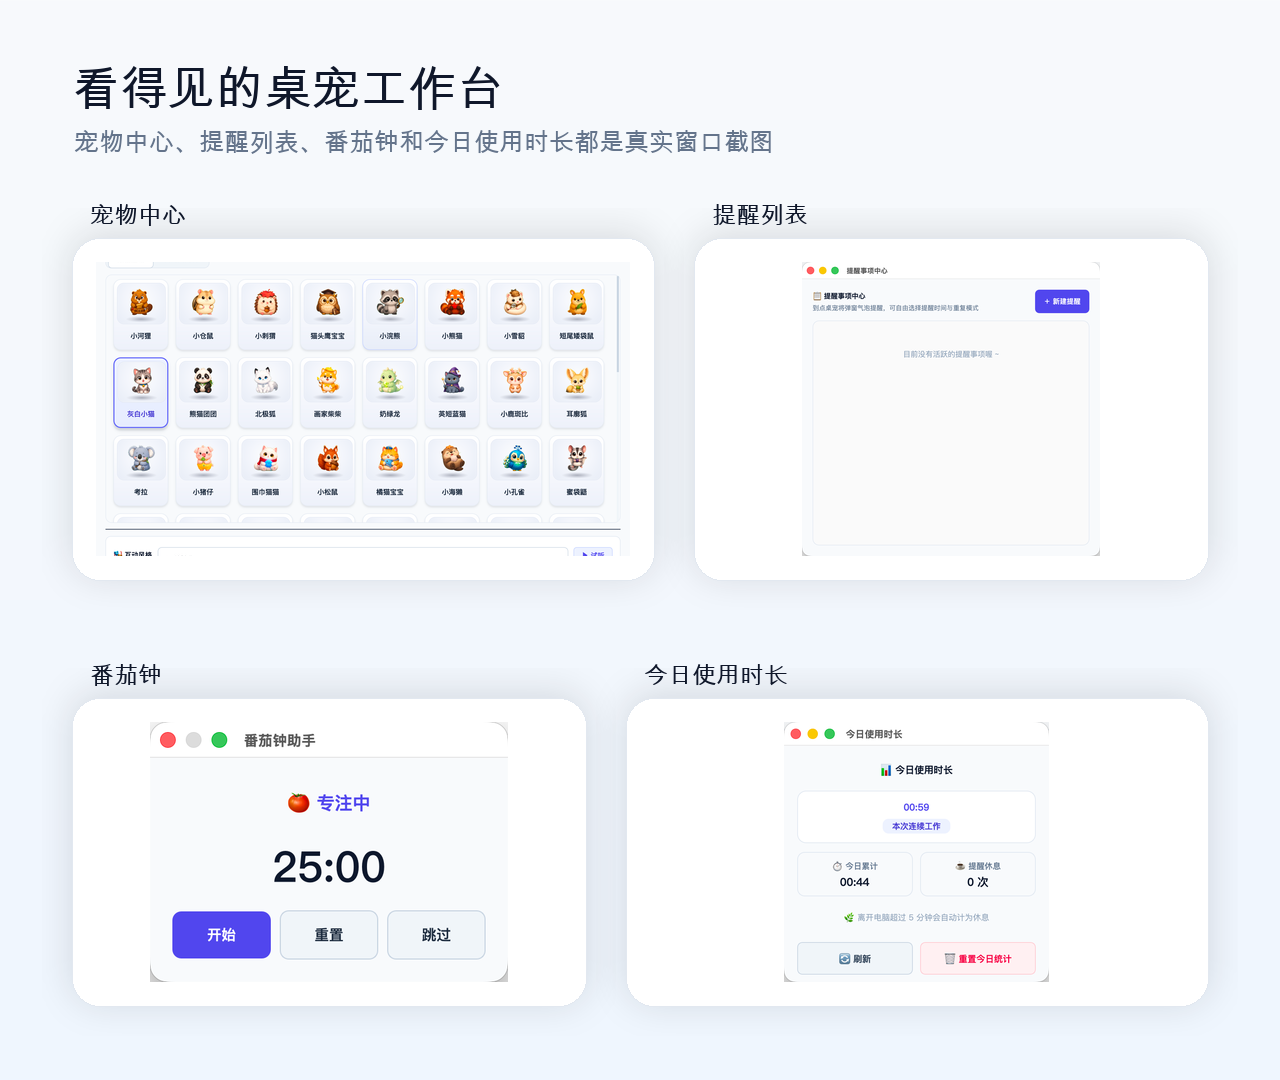
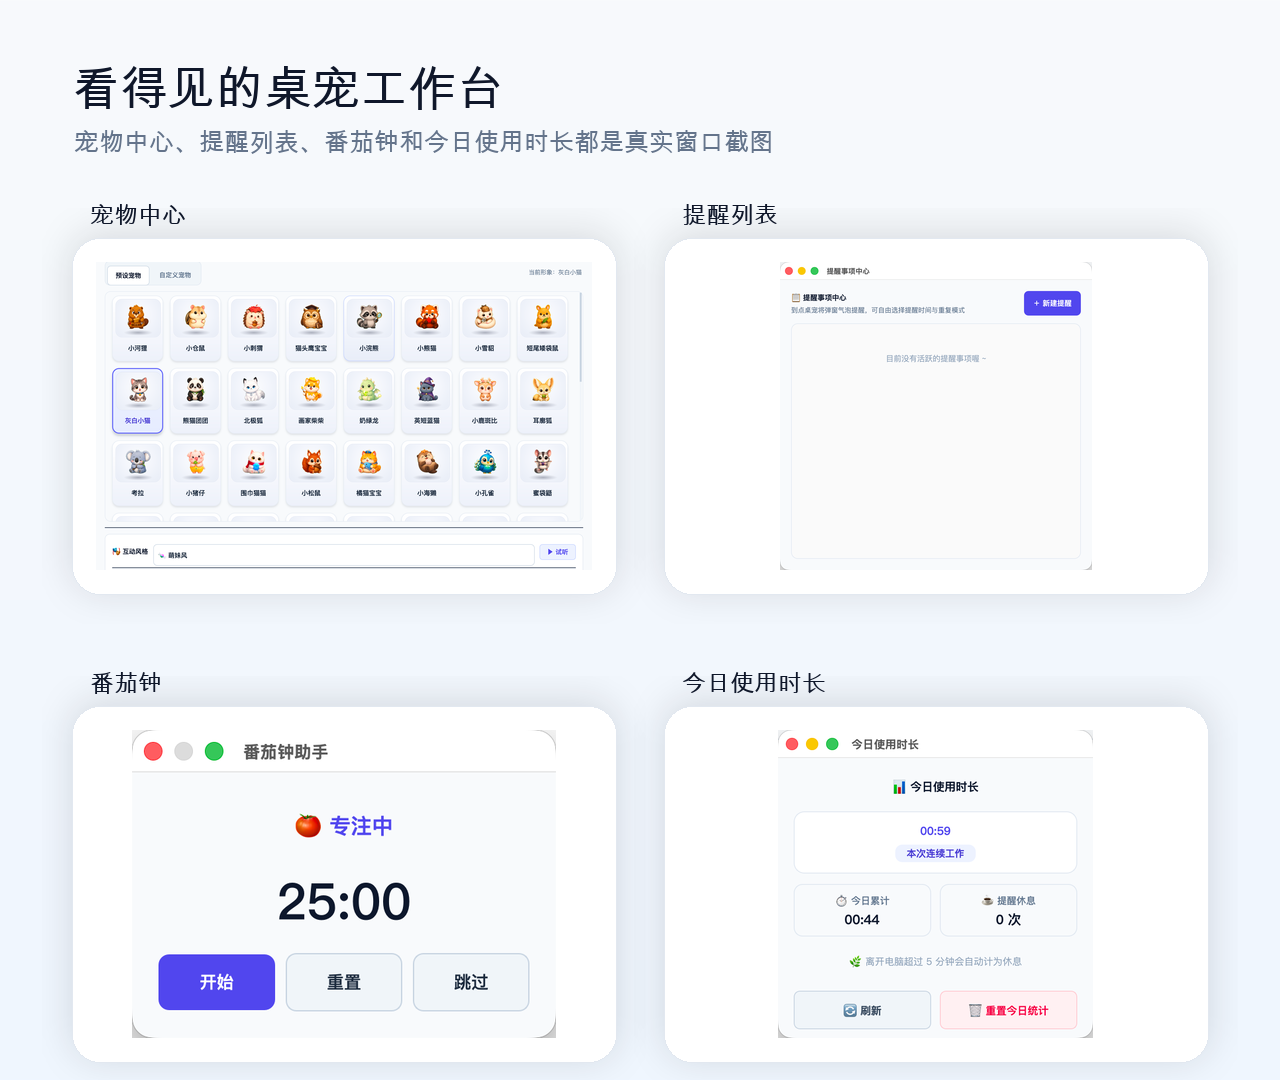
docs: simplify readme showcase grid

diff --git a/scripts/make_readme_media.py b/scripts/make_readme_media.py
@@ -369,10 +369,10 @@ def _make_ui_showcase(library_path: Path, usage_path: Path) -> Image.Image:
     _text(draw, (74, 124), "宠物中心、提醒列表、番茄钟和今日使用时长都是真实窗口截图", _font(FONT_CJK, 25), MUTED)
 
     shots = (
-        ("宠物中心", _required_image(PET_CENTER_SHOT), (72, 238, 654, 580), True),
-        ("提醒列表", _required_image(REMINDERS_SHOT), (694, 238, 1208, 580), False),
-        ("番茄钟", _required_image(POMODORO_SHOT), (72, 698, 586, 1006), False),
-        ("今日使用时长", _required_image(USAGE_SHOT), (626, 698, 1208, 1006), False),
+        ("宠物中心", _required_image(PET_CENTER_SHOT), (72, 238, 616, 594), True),
+        ("提醒列表", _required_image(REMINDERS_SHOT), (664, 238, 1208, 594), False),
+        ("番茄钟", _required_image(POMODORO_SHOT), (72, 706, 616, 1062), False),
+        ("今日使用时长", _required_image(USAGE_SHOT), (664, 706, 1208, 1062), False),
     )
     for title, image, box, cover in shots:
         _draw_image_panel(canvas, image, box, cover=cover)
@@ -381,16 +381,20 @@ def _make_ui_showcase(library_path: Path, usage_path: Path) -> Image.Image:
 
 
 def _make_showcase(desktop: Image.Image, ui: Image.Image) -> Image.Image:
-    canvas = _gradient((1400, 900), (248, 250, 252), (239, 246, 255))
+    canvas = _gradient((1400, 1040), (248, 250, 252), (239, 246, 255))
     draw = ImageDraw.Draw(canvas)
     _text(draw, (78, 54), "一句话生成，真的养在桌面上", _font(FONT_CJK, 58), INK)
-    _text(draw, (82, 132), "桌宠在桌面回应 AI 编码任务，工作台集中管理宠物、提醒和专注状态。", _font(FONT_CJK, 25), MUTED)
+    _text(draw, (82, 132), "桌宠工作台集中管理宠物、提醒、专注和今日使用时长。", _font(FONT_CJK, 25), MUTED)
 
-    notification = _required_image(NOTIFICATION_SHOT)
-    _draw_image_panel(canvas, notification, (90, 210, 520, 790), radius=36)
-    _draw_image_panel(canvas, _required_image(PET_CENTER_SHOT), (570, 210, 1298, 505), radius=34, cover=True)
-    _draw_image_panel(canvas, _required_image(USAGE_SHOT), (570, 560, 930, 790), radius=34)
-    _draw_image_panel(canvas, _required_image(POMODORO_SHOT), (980, 560, 1298, 790), radius=34)
+    shots = (
+        ("宠物中心", _required_image(PET_CENTER_SHOT), (90, 246, 660, 622), True),
+        ("提醒列表", _required_image(REMINDERS_SHOT), (740, 246, 1310, 622), False),
+        ("番茄钟", _required_image(POMODORO_SHOT), (90, 748, 660, 1018), False),
+        ("今日使用时长", _required_image(USAGE_SHOT), (740, 748, 1310, 1018), False),
+    )
+    for title, image, box, cover in shots:
+        _draw_image_panel(canvas, image, box, radius=34, cover=cover)
+        _text(draw, (box[0] + 18, box[1] - 42), title, _font(FONT_CJK, 26), INK)
     return canvas.convert("RGB")
 
 

diff --git a/README.md b/README.md
@@ -16,9 +16,9 @@
 它会完成从 AI 生图到本地切帧的整条链路：生成形象、绿幕抠图、切帧、打包成 `8 x 9` 精灵表，然后通过托盘应用把宠物养在桌面上。你也可以把它接入 Claude Code、Codex、Antigravity 等 AI 编码工具，让任务状态实时变成桌宠表情、气泡和音效反馈。
 
 <p align="center">
-  <img src="docs/images/readme-showcase.png" alt="AI 桌面宠物生成器：桌面运行和宠物工作台展示" width="880">
+  <img src="docs/images/readme-showcase.png" alt="AI 桌面宠物生成器：宠物中心、提醒列表、番茄钟和今日使用时长四宫格展示" width="880">
   <br>
-  <sub>一句话生成、绿幕切帧、托盘常驻，桌宠会呼吸、弹气泡，并回应 AI 编码任务。</sub>
+  <sub>一句话生成、绿幕切帧、托盘常驻，并在一个工作台里管理宠物、提醒、专注和使用时长。</sub>
 </p>
 
 ## 精选伙伴
@@ -51,32 +51,9 @@
 不只是预览图，这是 `petgen app` 跑起来后的核心体验：悬浮宠物常驻桌面、有呼吸动画，宠物中心可以浏览、切换、管理你养的所有伙伴，今日使用时长面板会记录连续工作和休息提醒。
 
 <p align="center">
-  <table align="center">
-    <tr>
-      <td align="center">
-        <img src="docs/images/readme-notification.png" alt="Codex 任务完成后的桌面宠物通知" width="300">
-      </td>
-      <td align="center">
-        <img src="docs/images/readme-ui-showcase.png" alt="宠物中心、提醒列表、番茄钟和今日使用时长界面展示" width="560">
-      </td>
-    </tr>
-    <tr>
-      <td align="center"><sub>桌面通知 · AI 任务完成反馈</sub></td>
-      <td align="center"><sub>宠物工作台 · 宠物中心 / 提醒 / 专注 / 统计</sub></td>
-    </tr>
-  </table>
-</p>
-
-应用界面截图：
-
-<p align="center">
-  <img src="docs/images/readme-pet-center.png" alt="PetGen 宠物中心" width="860">
-</p>
-
-<p align="center">
-  <img src="docs/images/readme-reminders.png" alt="提醒事项中心" width="280">
-  <img src="docs/images/readme-pomodoro.png" alt="番茄钟助手" width="280">
-  <img src="docs/images/readme-usage.png" alt="今日使用时长" width="280">
+  <img src="docs/images/readme-ui-showcase.png" alt="宠物中心、提醒列表、番茄钟和今日使用时长四宫格界面展示" width="820">
+  <br>
+  <sub>宠物中心 / 提醒列表 / 番茄钟 / 今日使用时长</sub>
 </p>
 
 ## 小红书素材
